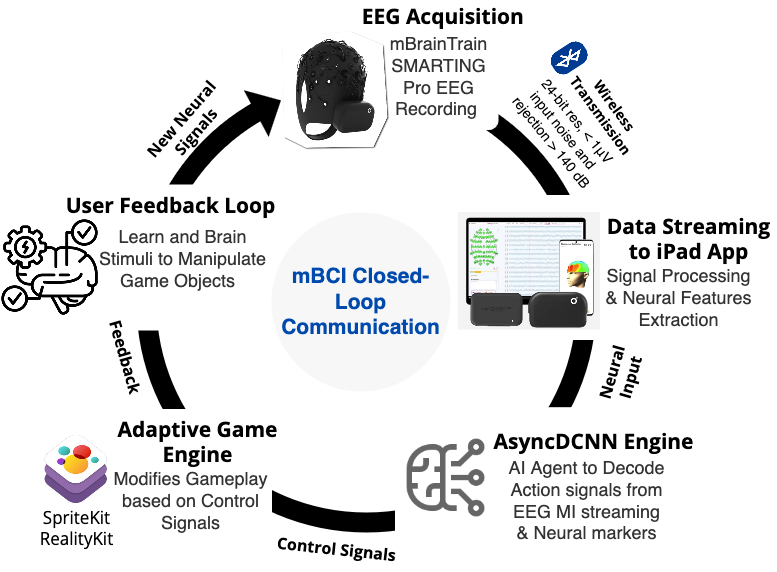
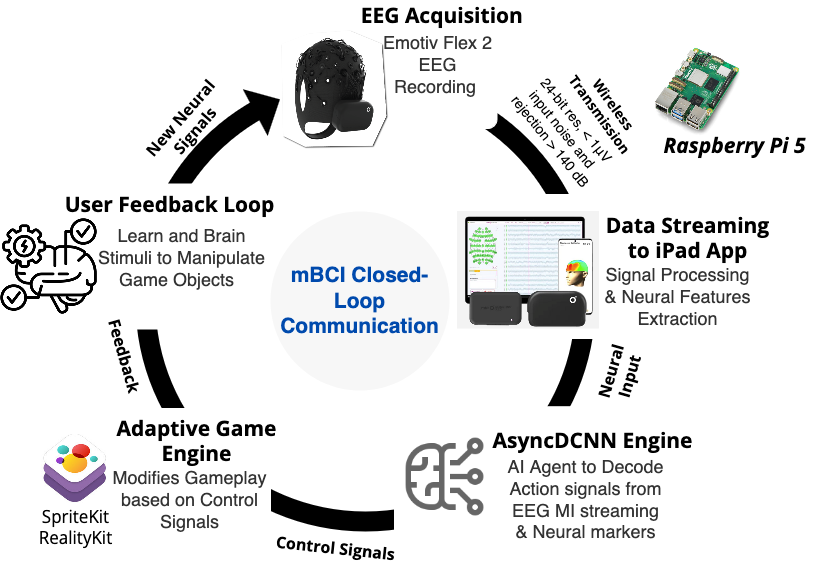
img updated

Changed region(s): [[0.0, 0.0, 1.0, 0.7133], [0.0309, 0.535, 0.8958, 0.9808]]

diff --git a/pages/research-projects.html b/pages/research-projects.html
@@ -517,14 +517,14 @@
           <h3 class="project-title">Mobile BCI for Game-based Motor Training and Neurorehabilitation</h3> <br>
           <div class="project-image-container" style="display: flex; flex-wrap: wrap; justify-content: center; gap: 1.5rem;">
             <!-- <img src="/assets/img/myimg/Brain-Mobile-Interface-Loop-Updated.png" alt="Brain-Mobile Interface Loop" class="project-image" style="max-width: 440px;"> -->
-            <img src="/assets/img/myimg/mBCI-Closed-Loop.png" alt="mBCI Closed Loop" class="project-image" style="max-width: 340px;">
+            <img src="/assets/img/myimg/mBCI-Closed-Loop.png" alt="mBCI Closed Loop" class="project-image" style="max-width: 450px;">
             <div style="max-width: 440px; width: 100%; text-align: center;">
               <video class="project-image" autoplay muted loop playsinline preload="metadata" aria-label="EEG-controlled maze game demo">
                 <source src="/assets/video/mBCI-Experiment.mp4" type="video/mp4">
                 Your browser does not support the video tag.
               </video>
               <p class="project-description" style="text-align: center; margin-top: 0.5rem;">
-                A participant wearing an EMOTIV Flex 2 EEG headset controlling our mBCI maze game in iPad in real time using brain signals.
+                A volunteer wearing EMOTIV Flex 2 EEG headset controlling our mBCI maze game in iPad in real-time.
               </p>
             </div>
           </div>
